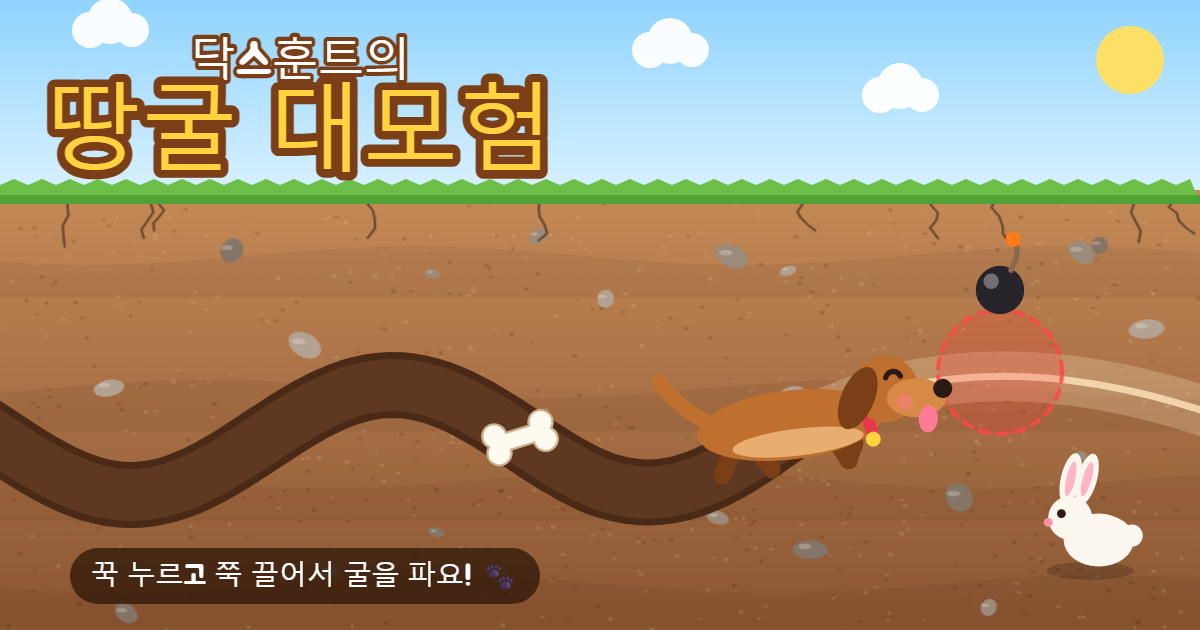
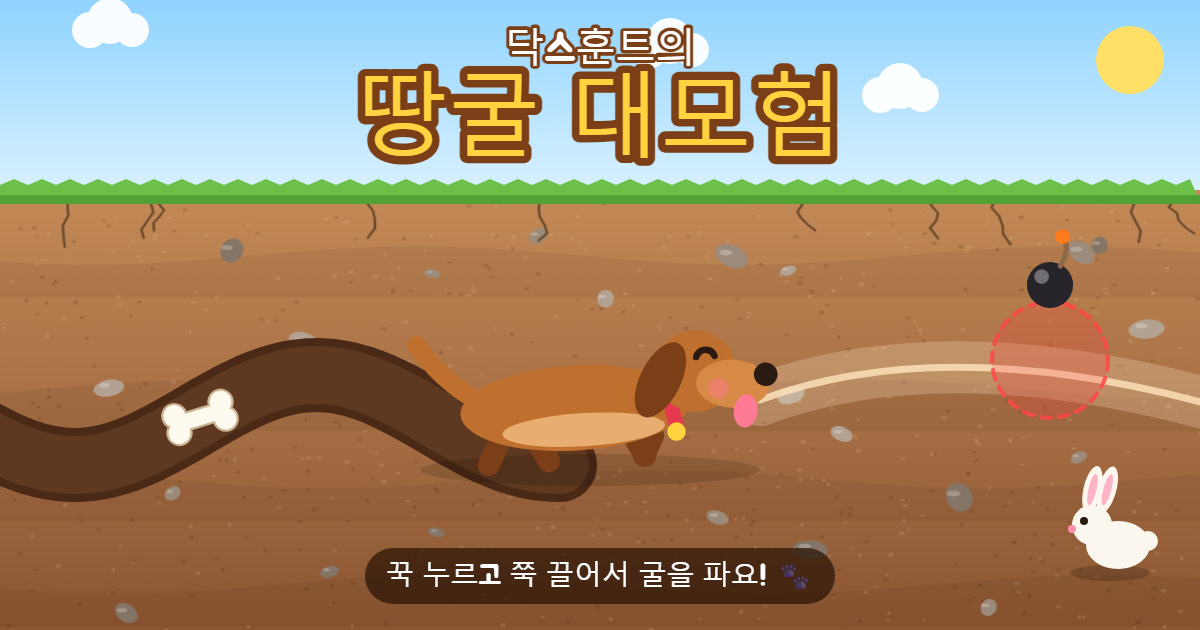
공유 썸네일: 옆모습 닥스훈트를 가운데 크게
- 카톡이 정사각형으로 잘라도 강아지가 보이도록 가운데 배치, 타이틀도 가운데
- og:image 주소에 ?v=2 를 붙여 카톡/SNS가 새 이미지를 다시 가져가게

diff --git a/index.html b/index.html
@@ -11,14 +11,14 @@
 <meta property="og:title" content="닥스훈트의 땅굴 대모험 🐾">
 <meta property="og:description" content="꾹 누르고 쭉 끌어서, 닥스훈트와 함께 땅굴을 파요! 폭탄, 토끼, 차오르는 물을 피해 GOAL까지">
 <meta property="og:url" content="https://dmswl6310.github.io/dachshund-dig/">
-<meta property="og:image" content="https://dmswl6310.github.io/dachshund-dig/og.png">
+<meta property="og:image" content="https://dmswl6310.github.io/dachshund-dig/og.png?v=2">
 <meta property="og:image:width" content="1200">
 <meta property="og:image:height" content="630">
 <meta property="og:locale" content="ko_KR">
 <meta name="twitter:card" content="summary_large_image">
 <meta name="twitter:title" content="닥스훈트의 땅굴 대모험 🐾">
 <meta name="twitter:description" content="꾹 누르고 쭉 끌어서, 닥스훈트와 함께 땅굴을 파요!">
-<meta name="twitter:image" content="https://dmswl6310.github.io/dachshund-dig/og.png">
+<meta name="twitter:image" content="https://dmswl6310.github.io/dachshund-dig/og.png?v=2">
 <link rel="manifest" href="manifest.webmanifest">
 <link rel="icon" type="image/png" href="icon-192.png">
 <link rel="apple-touch-icon" href="icon-192.png">
@@ -879,20 +879,22 @@ async function drawPoster(kind){
     drawDog(225, 320, -0.08, 1.2, 4.0, false, false, true);
     return;
   }
-  const way = []; for (let x = -20; x <= 790; x += 10) way.push([x, 440 + Math.sin(x*0.012)*55 - (x > 600 ? (x - 600)*0.05 : 0)]);
-  tunnel(way, 66, 52);
-  ctx.strokeStyle = 'rgba(255,232,195,0.25)'; ctx.lineWidth = 50; ctx.lineCap = 'round'; ctx.beginPath(); ctx.moveTo(800, 425); ctx.quadraticCurveTo(980, 330, 1230, 420); ctx.stroke();
+  // 가운데에 옆모습 닥스훈트를 크게 (카톡이 정사각형으로 잘라도 강아지가 보이게)
+  const way = []; for (let x = -20; x <= 560; x += 10) way.push([x, 420 + Math.sin(x*0.013 + 0.6)*45]);
+  tunnel(way, 74, 58);
+  ctx.strokeStyle = 'rgba(255,232,195,0.25)'; ctx.lineWidth = 52; ctx.lineCap = 'round'; ctx.beginPath(); ctx.moveTo(760, 400); ctx.quadraticCurveTo(950, 330, 1230, 410); ctx.stroke();
   ctx.strokeStyle = 'rgba(250,225,185,0.85)'; ctx.lineWidth = 7; ctx.stroke();
-  bone(520, way[54][1], 2.2, -0.3);
-  ctx.fillStyle = 'rgba(255,60,60,0.22)'; ctx.beginPath(); ctx.arc(1000, 372, 62, 0, 7); ctx.fill();
+  bone(200, way[22][1], 2.2, -0.3);
+  ctx.fillStyle = 'rgba(255,60,60,0.22)'; ctx.beginPath(); ctx.arc(1050, 360, 58, 0, 7); ctx.fill();
   ctx.strokeStyle = 'rgba(255,70,70,0.85)'; ctx.lineWidth = 4; ctx.setLineDash([10, 8]); ctx.stroke(); ctx.setLineDash([]);
-  ctx.save(); ctx.translate(1000, 290); ctx.scale(2.2, 2.2); drawBomb(0, 0); ctx.restore();
-  ctx.save(); ctx.translate(1090, 540); ctx.scale(2.2, 2.2); drawAnimal({ x: 0, y: 0, type: 'rabbit', ph: 0 }, true); ctx.restore();
-  drawDog(790, 425, -0.12, 1.3, 3.0, false, false, true);
-  text('닥스훈트의', 300, 62, 46, '#fff', 'center', '#7a3f17');
-  text('땅굴 대모험', 300, 135, 96, '#ffd23f', 'center', '#7a3f17');
-  ctx.fillStyle = 'rgba(40,20,5,0.72)'; rr(70, 548, 470, 56, 28); ctx.fill();
-  text('꾹 누르고 쭉 끌어서 굴을 파요! 🐾', 305, 577, 28, '#fff');
+  ctx.save(); ctx.translate(1050, 285); ctx.scale(2.1, 2.1); drawBomb(0, 0); ctx.restore();
+  ctx.save(); ctx.translate(1110, 545); ctx.scale(2.0, 2.0); drawAnimal({ x: 0, y: 0, type: 'rabbit', ph: 0 }, true); ctx.restore();
+  ctx.fillStyle = 'rgba(0,0,0,0.12)'; ctx.beginPath(); ctx.ellipse(590, 470, 170, 16, 0, 0, 7); ctx.fill();
+  drawDog(575, 408, -0.06, 1.3, 3.7, false, false, true);
+  text('닥스훈트의', 600, 50, 40, '#fff', 'center', '#7a3f17');
+  text('땅굴 대모험', 600, 122, 92, '#ffd23f', 'center', '#7a3f17');
+  ctx.fillStyle = 'rgba(40,20,5,0.72)'; rr(365, 548, 470, 56, 28); ctx.fill();
+  text('꾹 누르고 쭉 끌어서 굴을 파요! 🐾', 600, 577, 28, '#fff');
 }
 
 // ================== 메인 루프 ==================
